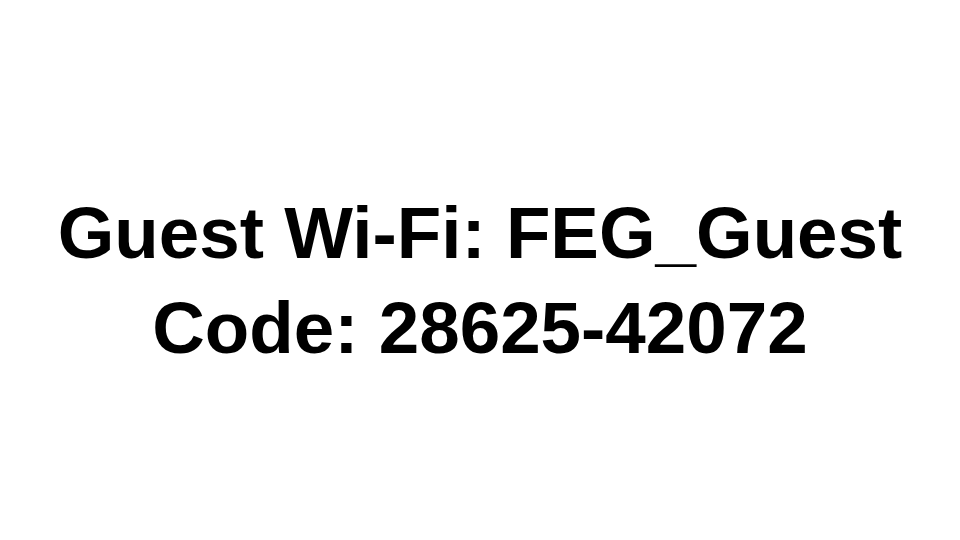
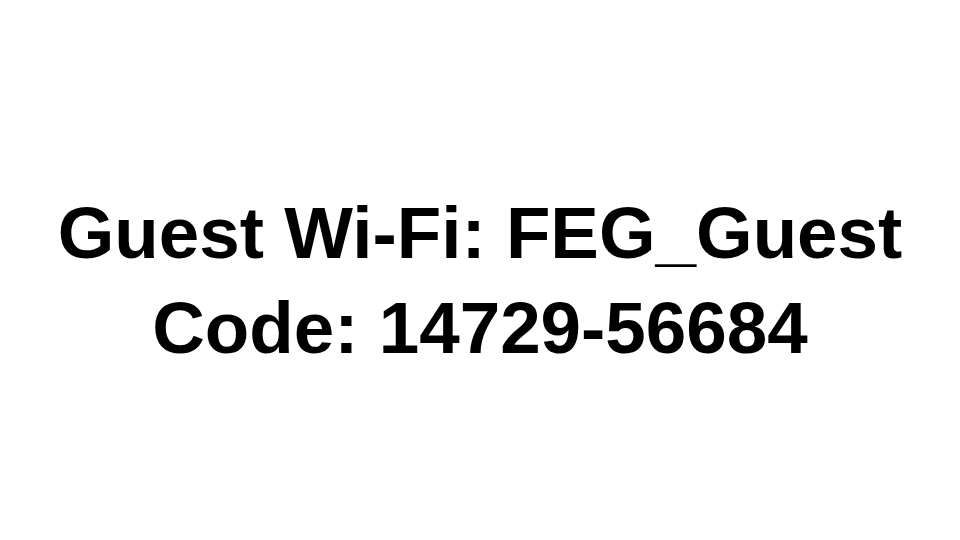
Automated Weekly Wi-Fi Refresh and E-Ink Image Update

Changed region(s): [[0.5625, 0.563, 0.8438, 0.6519], [0.375, 0.563, 0.5312, 0.6519]]

diff --git a/wifi/wifi.html b/wifi/wifi.html
@@ -25,7 +25,7 @@
 </head>
 <body>
     <div class="wifi-line">
-        Guest Wi-Fi: FEG_Guest<br>Code: 28625-42072
+        Guest Wi-Fi: FEG_Guest<br>Code: 14729-56684
     </div>
 </body>
 </html>
